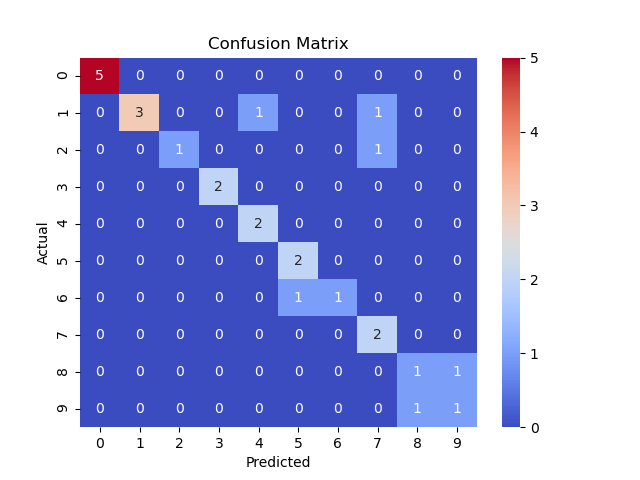
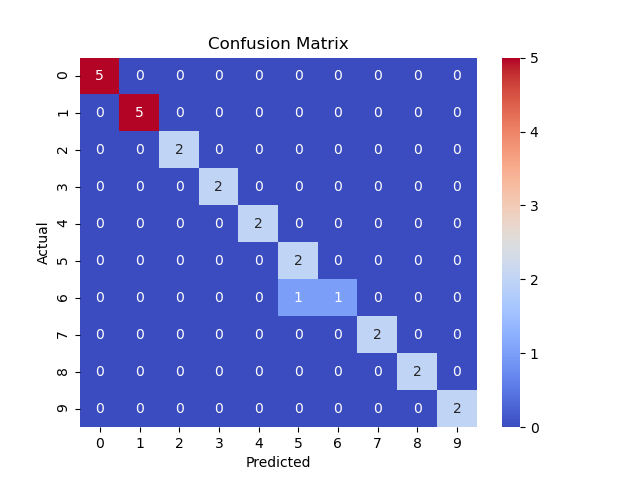
increase results for my own digit set

diff --git a/train.py b/train.py
@@ -41,8 +41,10 @@ validation_directory_iterator = train_data_generator.flow_from_directory(
 )
 
 model = Sequential([
-    Conv2D(48, (7, 7), activation='relu', input_shape=(28, 28, 1)),
-    MaxPooling2D(),
+    Conv2D(32, (5, 5), activation='relu', input_shape=(28, 28, 1)),
+    MaxPooling2D(pool_size=(3, 3)),
+    Conv2D(32, (3, 3), activation='relu'),
+    MaxPooling2D(pool_size=(2, 2)),
     Flatten(),
     Dense(48, activation='relu'),
     Dense(10, activation='softmax'),

diff --git a/test.py b/test.py
@@ -7,8 +7,8 @@ import matplotlib.pyplot as plt
 
 # Paths
 model_path = 'models/'
-# test_path = 'data/my-digits'
-test_path = 'data/mnist/images/test'
+test_path = 'data/my-digits'
+# test_path = 'data/mnist/images/test'
 batch_size = 1000
 
 image_size = (28, 28)

diff --git a/README.md b/README.md
@@ -3,19 +3,21 @@
 Model
 ```
 model = Sequential([
-    Conv2D(48, (7, 7), activation='relu', input_shape=(28, 28, 1)),
-    MaxPooling2D(),
+    Conv2D(32, (5, 5), activation='relu', input_shape=(28, 28, 1)),
+    MaxPooling2D(pool_size=(3, 3)),
+    Conv2D(32, (3, 3), activation='relu'),
+    MaxPooling2D(pool_size=(2, 2)),
     Flatten(),
     Dense(48, activation='relu'),
     Dense(10, activation='softmax'),
 ])
 ```
 
-MNIST test data set - `0.9847` accuracy
+MNIST test data set - `0.9866` accuracy
 
 ![MNIST data set confusion matrix](docs/confusion-matrix-mnist.png)
 
 
-My own digits data set - `0.7692` accuracy
+My own digits data set - `0.9615` accuracy
 
 ![My own data set confusion matrix](docs/confusion-matrix-my-digits.png)
